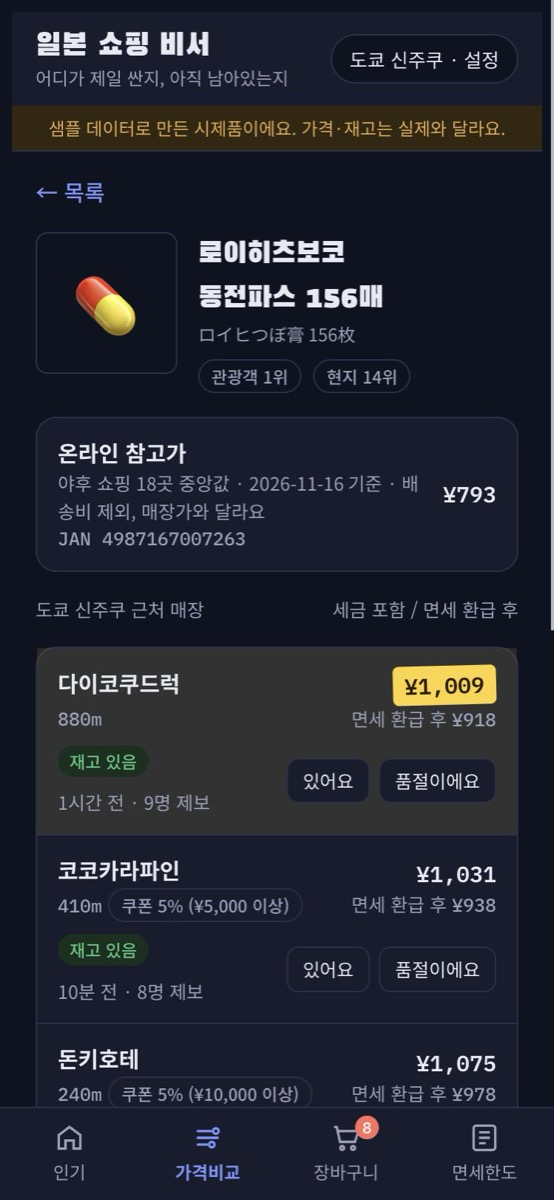
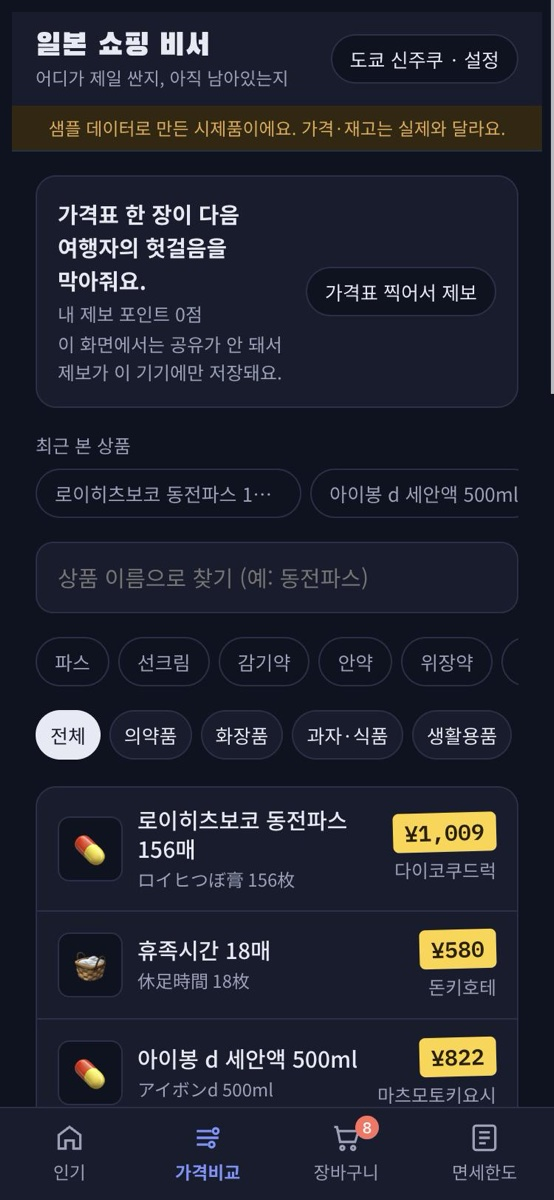
Update the compare screenshot in README

diff --git a/README.md b/README.md
@@ -12,7 +12,7 @@
 
 <p>
 <img src="docs/screen-popular.jpg" width="190" alt="인기 탭: 관광객 인기 순위">
-<img src="docs/screen-compare.jpg" width="190" alt="가격비교: 매장별 가격과 재고">
+<img src="docs/screen-compare.jpg" width="190" alt="가격비교: 상품 검색과 최저가">
 <img src="docs/screen-cart.jpg" width="190" alt="장바구니: 추천 쇼핑 동선">
 <img src="docs/screen-allowance.jpg" width="190" alt="면세한도: 입국 면세한도 추적">
 </p>
